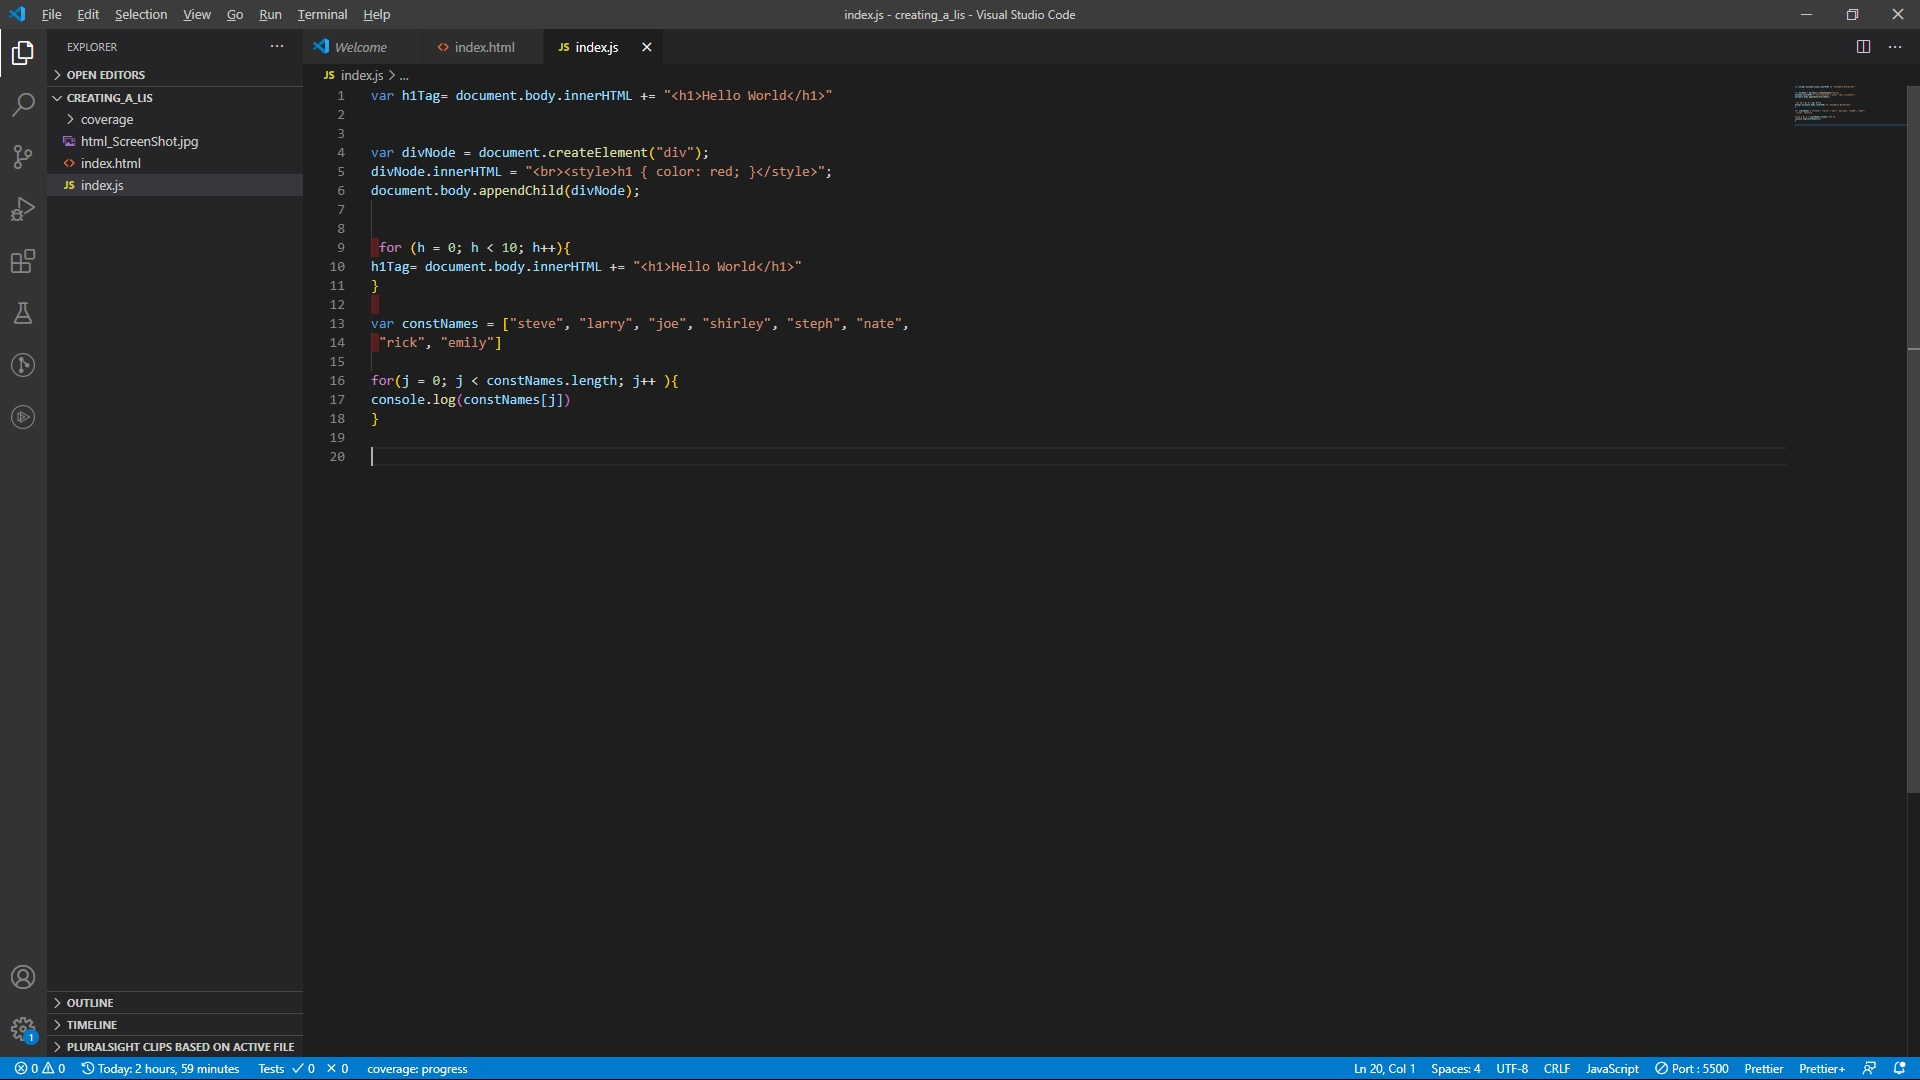
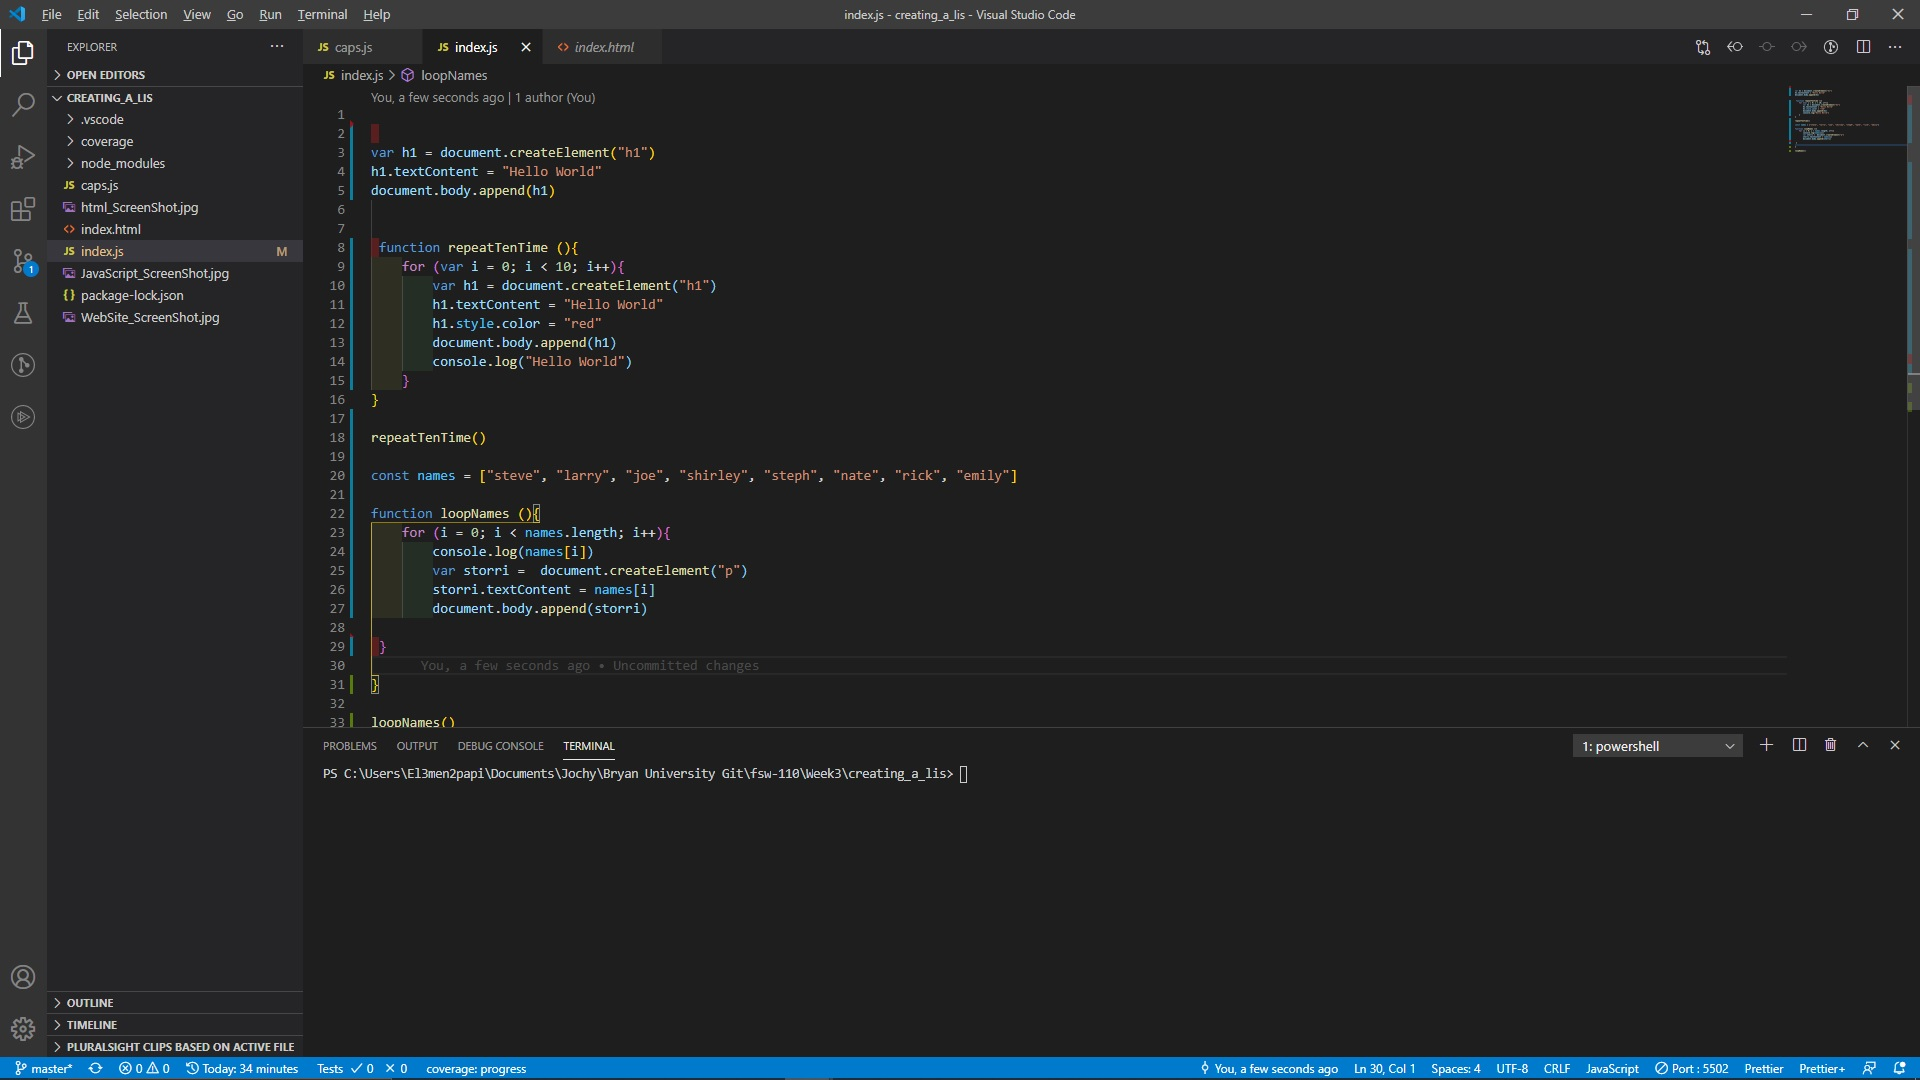
first commit

diff --git a/Week3/creating_a_lis/index.js b/Week3/creating_a_lis/index.js
@@ -1,19 +1,33 @@
-var h1Tag= document.body.innerHTML += "<h1>Hello World</h1>"
 
-
-var divNode = document.createElement("div");
-divNode.innerHTML = "<br><style>h1 { color: red; }</style>";
-document.body.appendChild(divNode);
-
-
- for (h = 0; h < 10; h++){
-h1Tag= document.body.innerHTML += "<h1>Hello World</h1>"
-}
  
-var constNames = ["steve", "larry", "joe", "shirley", "steph", "nate",
- "rick", "emily"]
+var h1 = document.createElement("h1")
+h1.textContent = "Hello World"
+document.body.append(h1)
 
-for(j = 0; j < constNames.length; j++ ){
-console.log(constNames[j])
+
+ function repeatTenTime (){
+    for (var i = 0; i < 10; i++){
+        var h1 = document.createElement("h1")
+        h1.textContent = "Hello World"
+        h1.style.color = "red"
+        document.body.append(h1)
+        console.log("Hello World")
+    }
 }
 
+repeatTenTime()
+
+const names = ["steve", "larry", "joe", "shirley", "steph", "nate", "rick", "emily"]
+
+function loopNames (){
+    for (i = 0; i < names.length; i++){
+        console.log(names[i])
+        var storri =  document.createElement("p")
+        storri.textContent = names[i]
+        document.body.append(storri)
+
+ }
+
+}
+
+loopNames()
